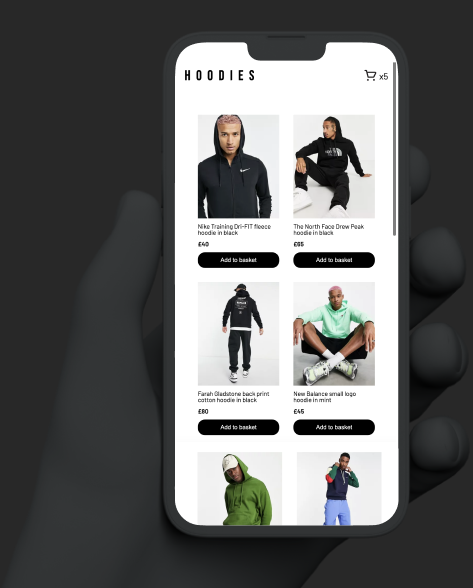
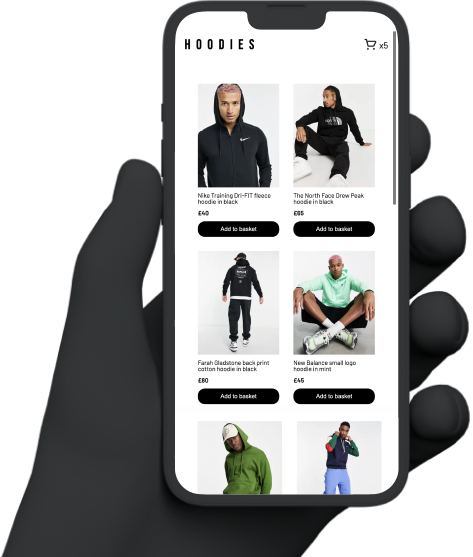
feat(styles): add media query for 1500px to add more margin and increase font size for links container

diff --git a/src/styles/css/main.css b/src/styles/css/main.css
@@ -573,6 +573,15 @@ header button {
     padding-right: 24px;
   }
 }
+@media (min-width: 1500px) {
+  .projects-grid-container h2 {
+    margin-top: 56px;
+    margin-bottom: 32px;
+  }
+  .projects-grid-container .links-container {
+    font-size: 1.5625rem;
+  }
+}
 @media (min-width: 2500px) {
   .projects-grid-container {
     grid-template-columns: 1200px 1200px;

diff --git a/src/styles/scss/components/_projectsgrid.scss b/src/styles/scss/components/_projectsgrid.scss
@@ -46,6 +46,19 @@
   }
 }
 
+@media (min-width: 1500px) {
+  .projects-grid-container {
+    h2 {
+      margin-top: $spacing-56;
+      margin-bottom: $spacing-32;
+    }
+
+    .links-container {
+      font-size: pxToRem(25px);
+    }
+  }
+}
+
 @media (min-width: 2500px) {
   .projects-grid-container {
     grid-template-columns: 1200px 1200px;
